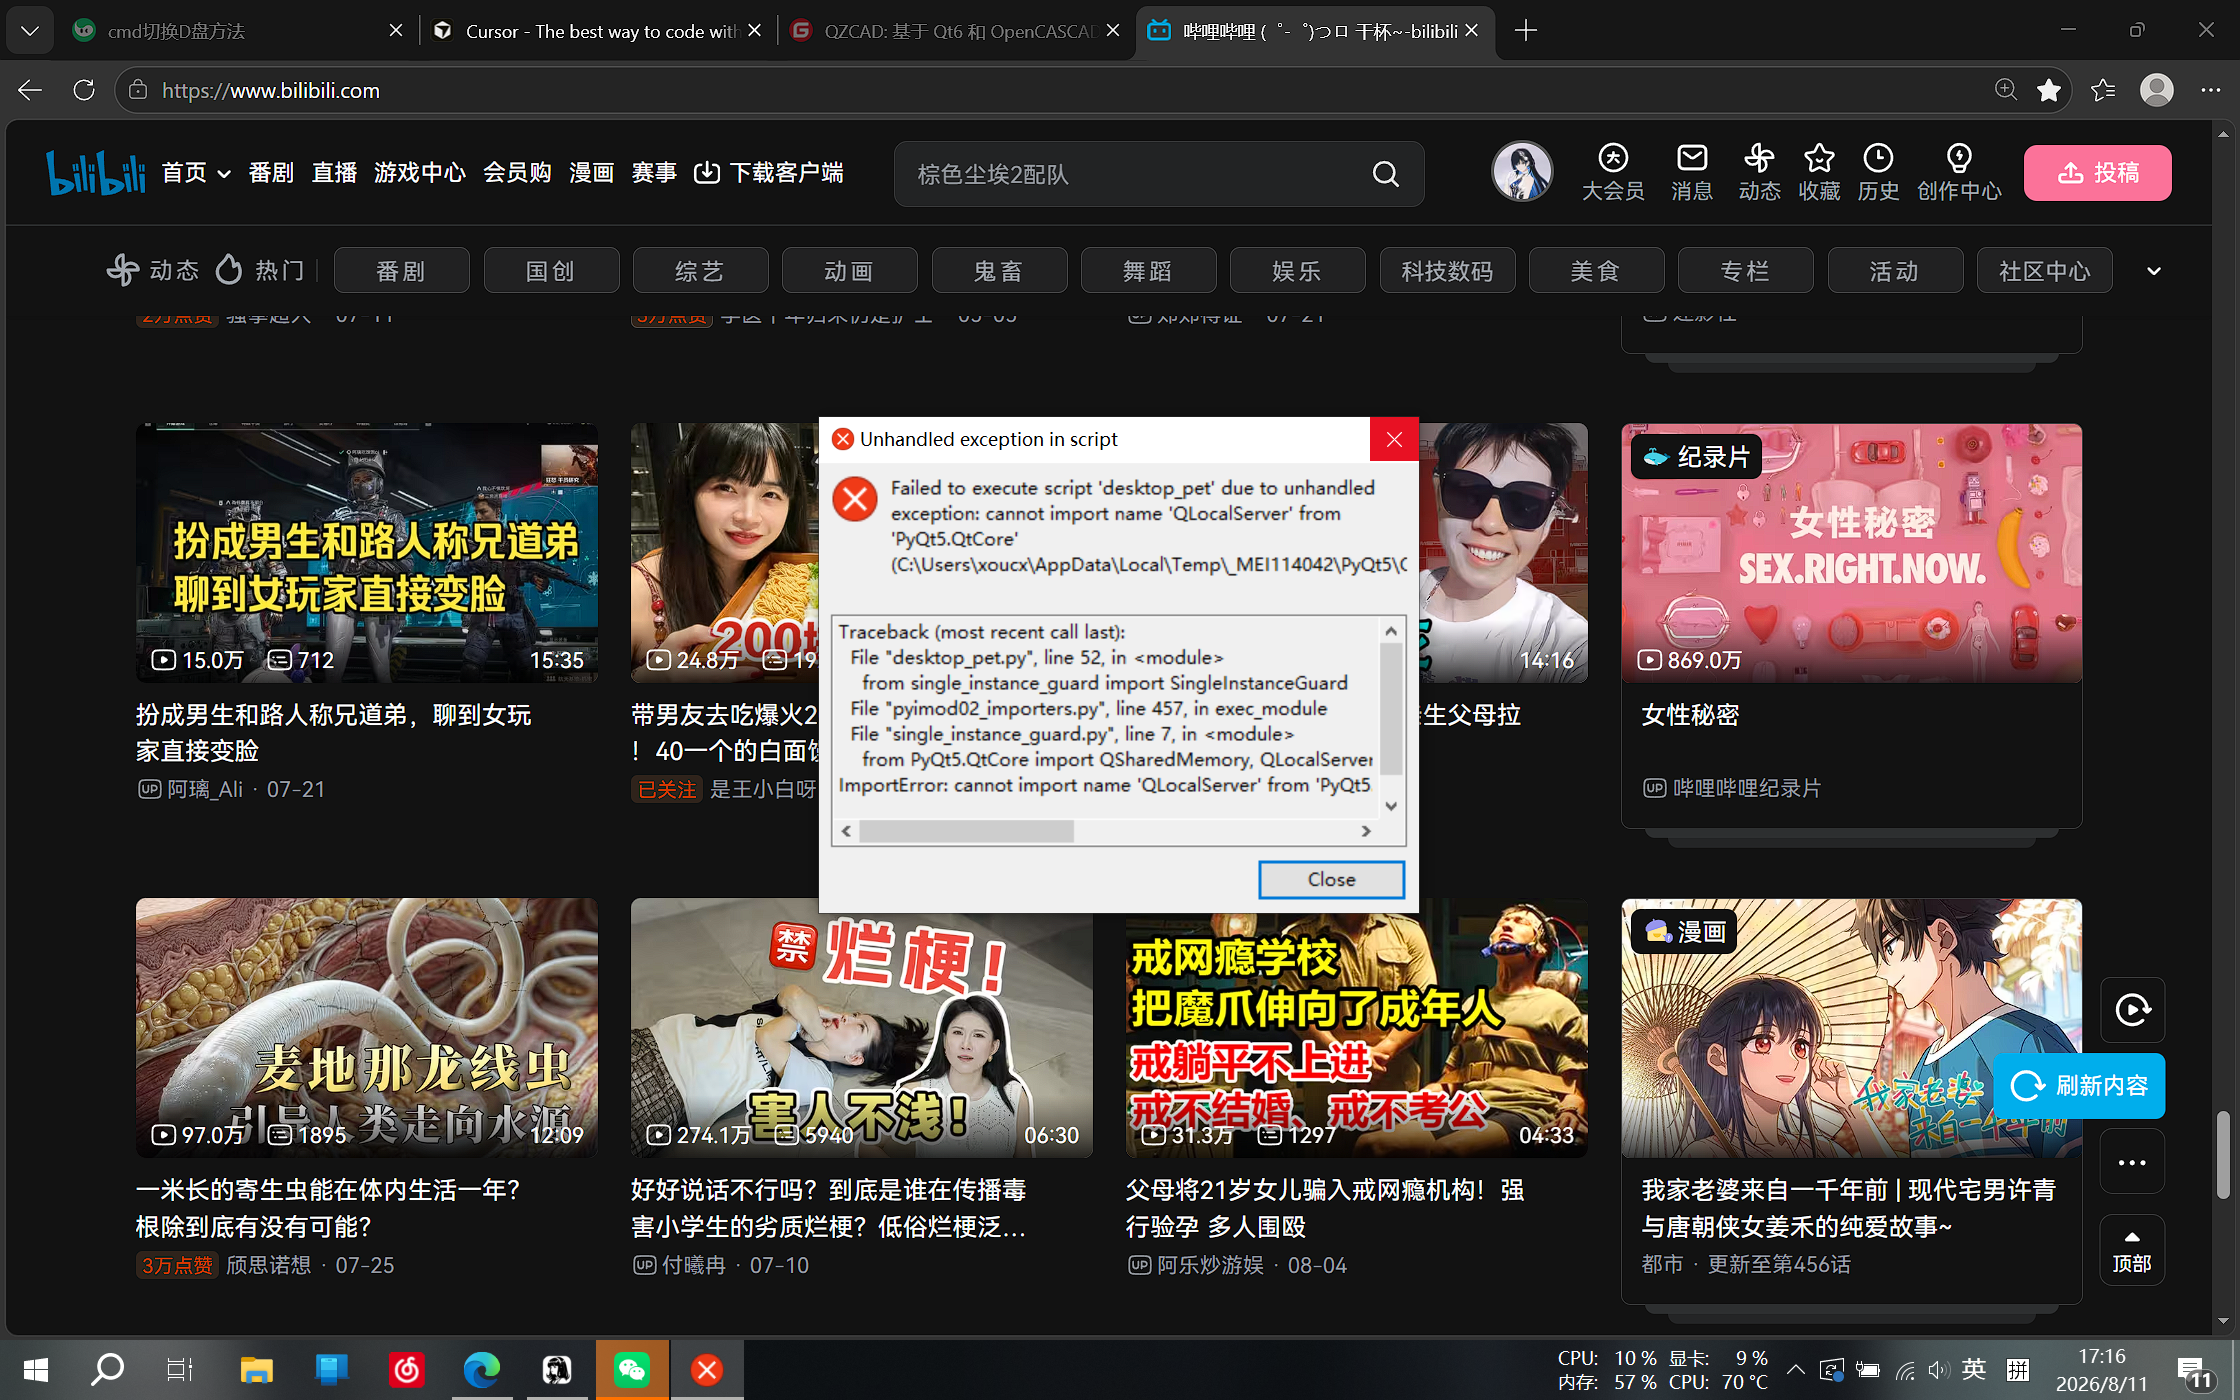
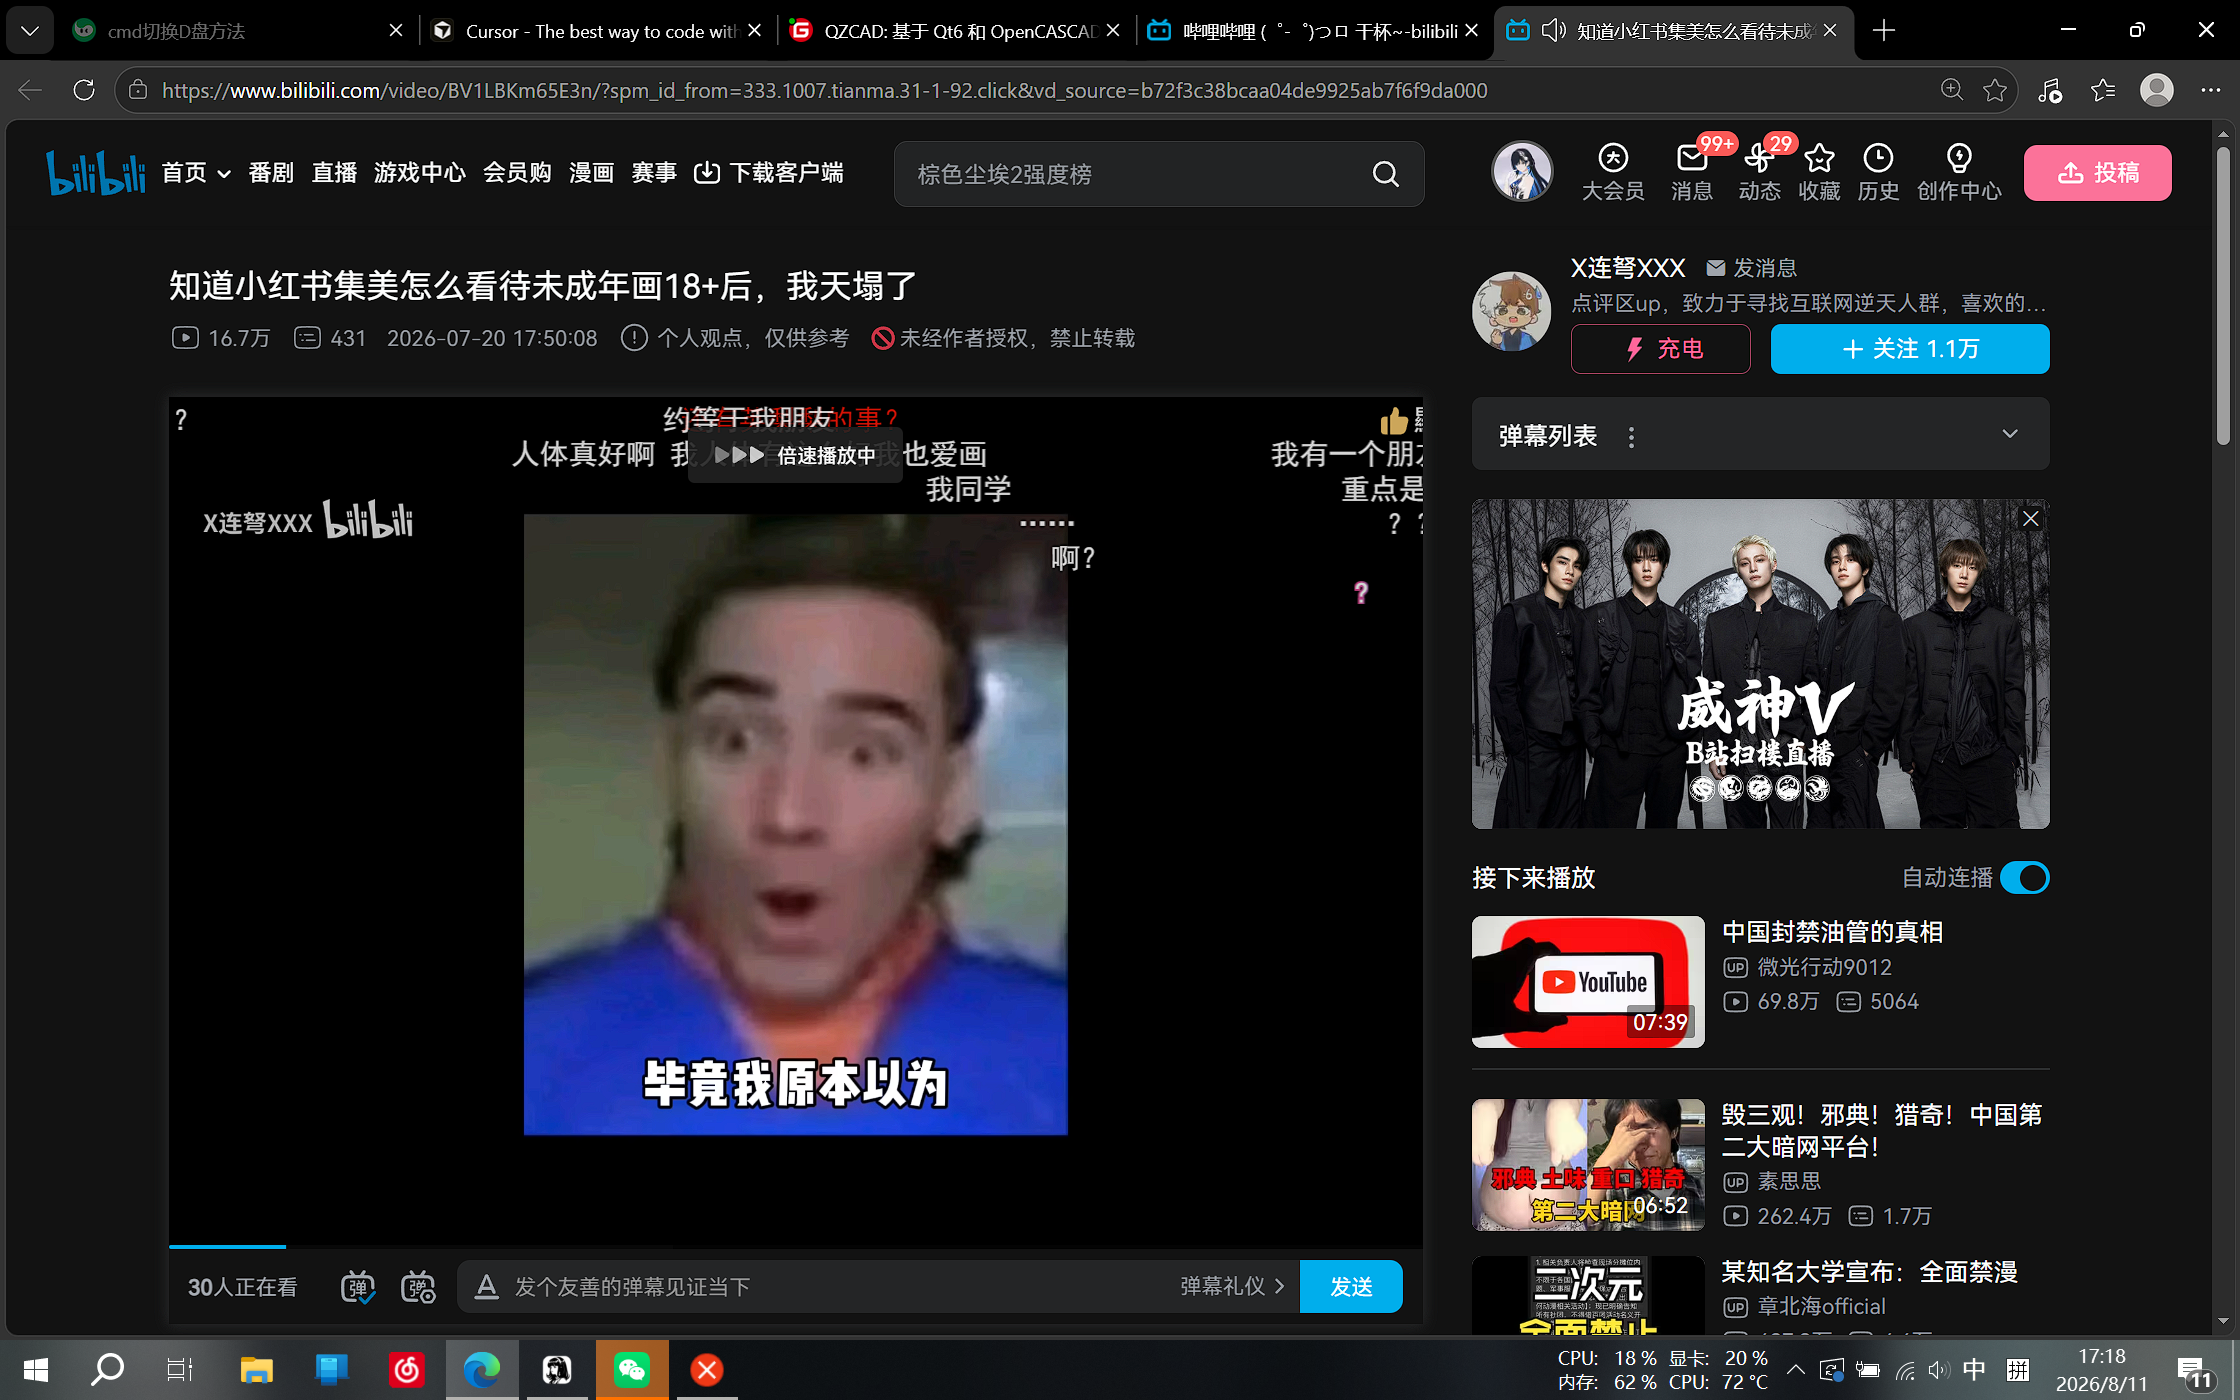
fix: 修复QtNetwork导入问题
QLocalServer和QLocalSocket在QtNetwork模块中，不是QtCore

diff --git a/single_instance_guard.py b/single_instance_guard.py
@@ -4,7 +4,8 @@
 """
 import sys
 import os
-from PyQt5.QtCore import QSharedMemory, QLocalServer, QLocalSocket
+from PyQt5.QtCore import QSharedMemory
+from PyQt5.QtNetwork import QLocalServer, QLocalSocket
 from PyQt5.QtWidgets import QApplication
 
 
